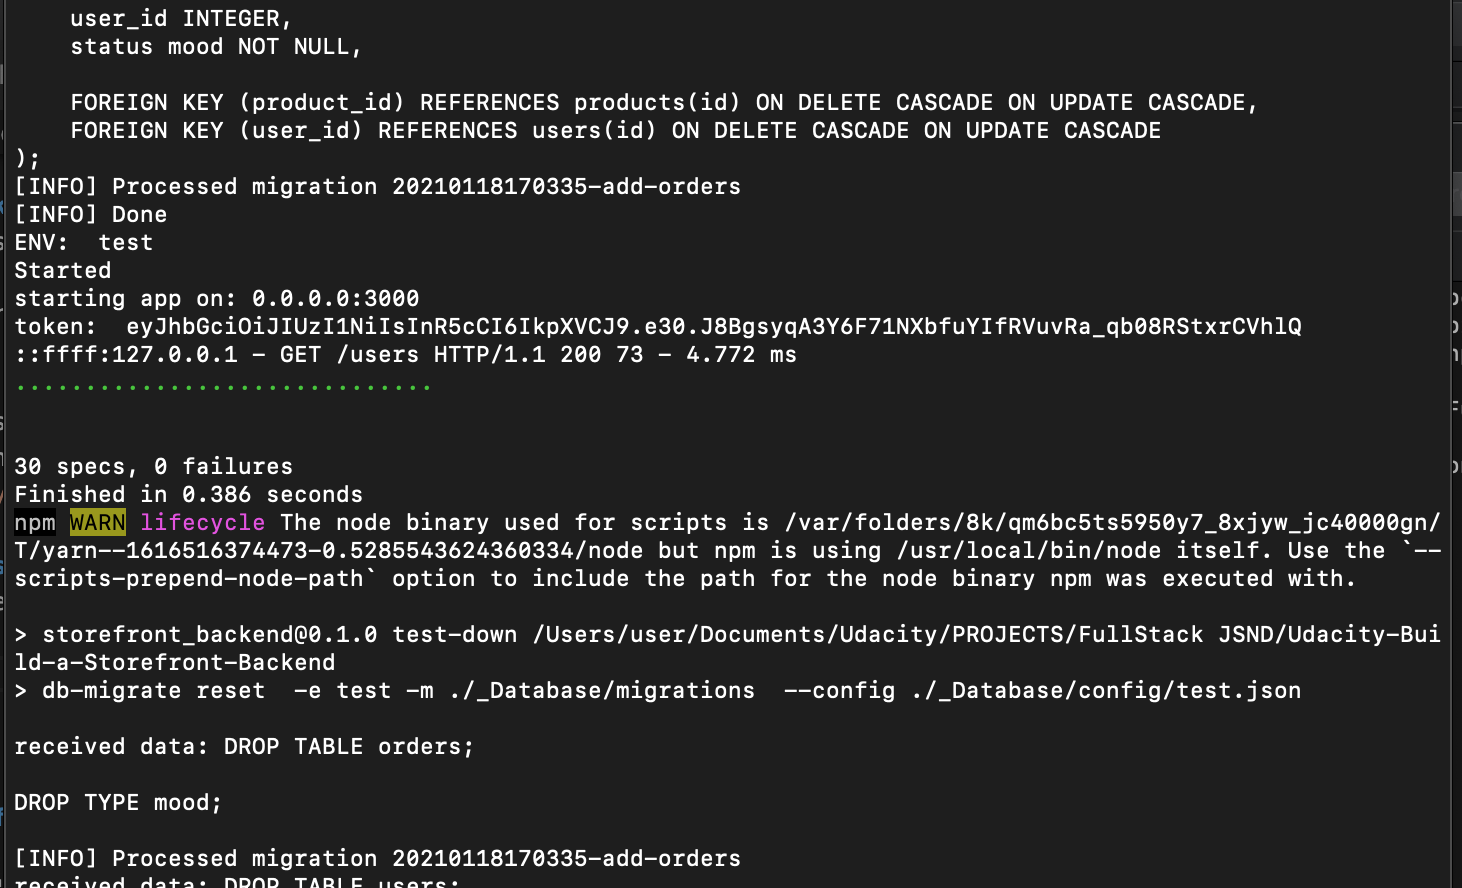
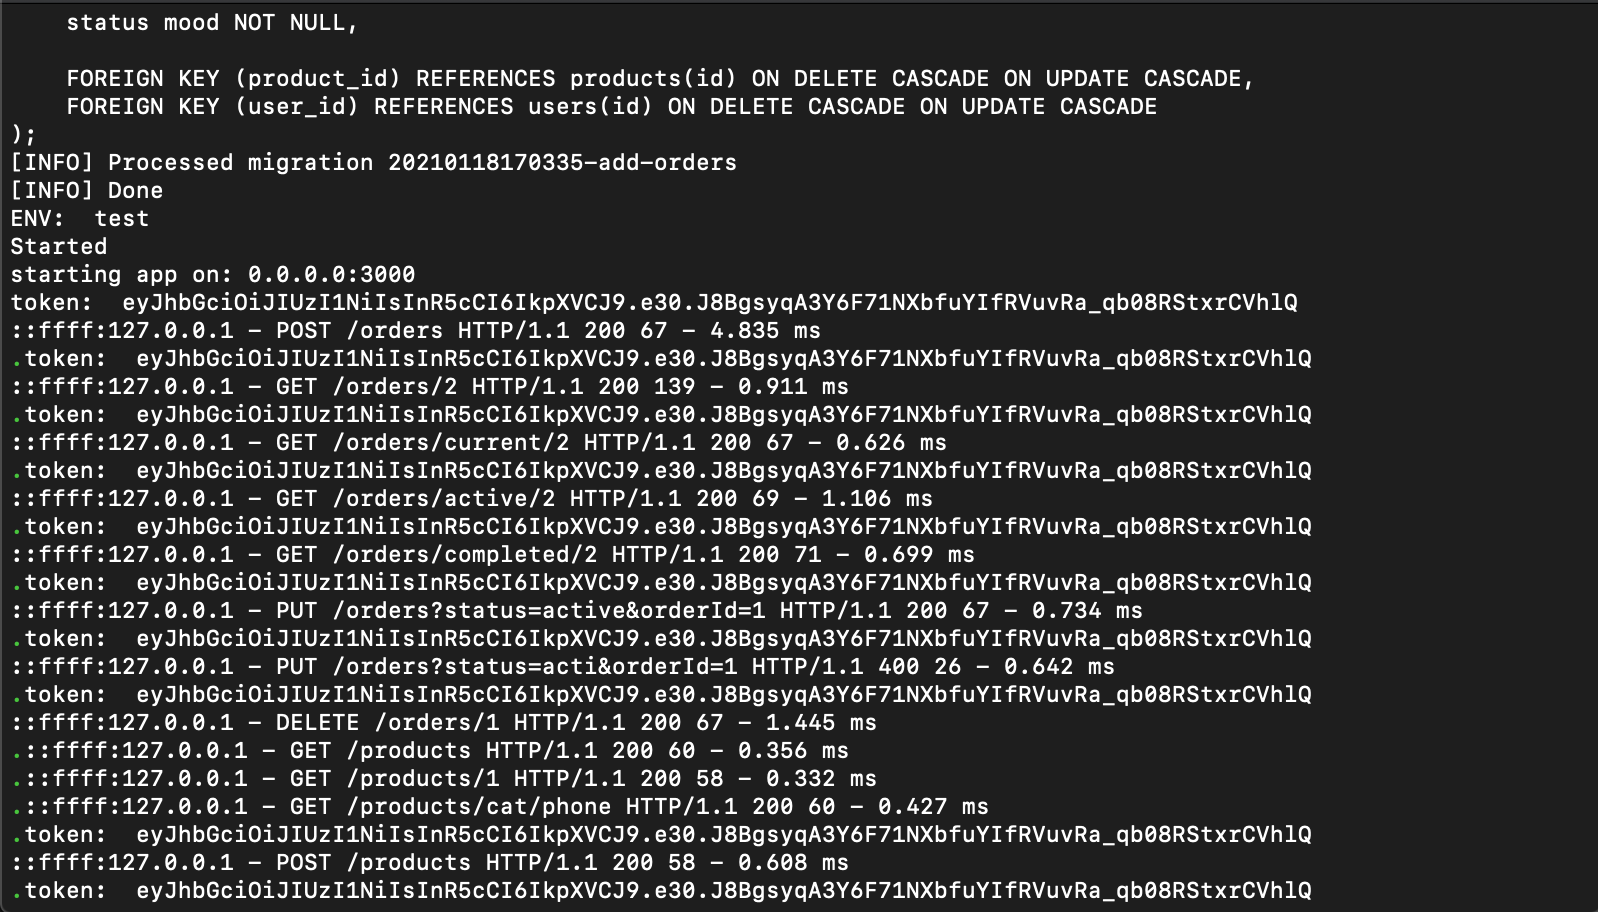
Docs; Update screenshots in readme

Changed region(s): [[0.0, 0.0, 1.0, 1.0]]

diff --git a/README.md b/README.md
@@ -93,6 +93,8 @@ Run test with
 
 `yarn test`
 
+It sets the environment to `test`, migrates up tables for the test database, run the test then migrate down all the tables for the test database. 
+
 !['test 1'](docs/test1.png)
 !['test 2'](docs/test2.png)
 !['test 3'](docs/test3.png)
